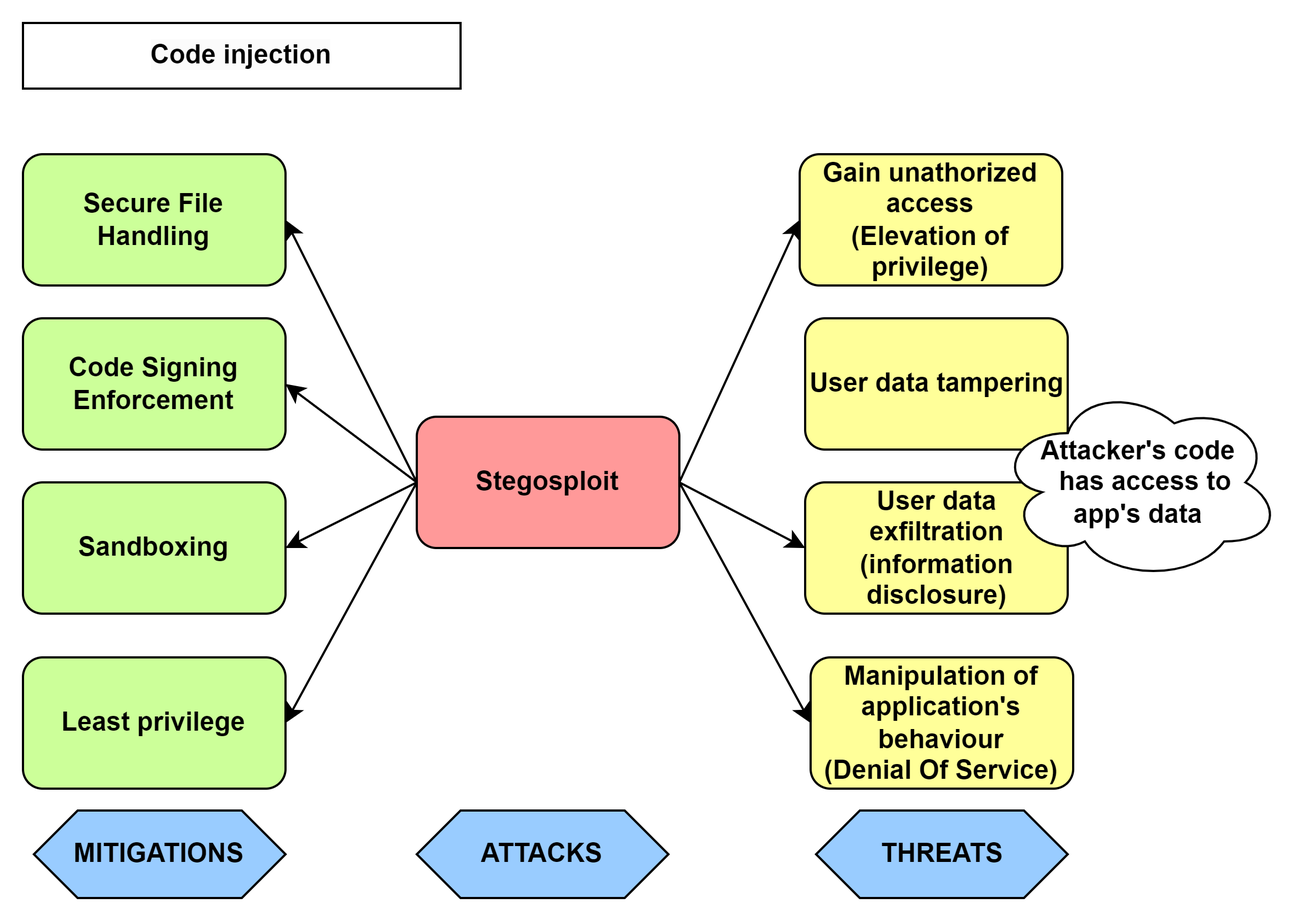
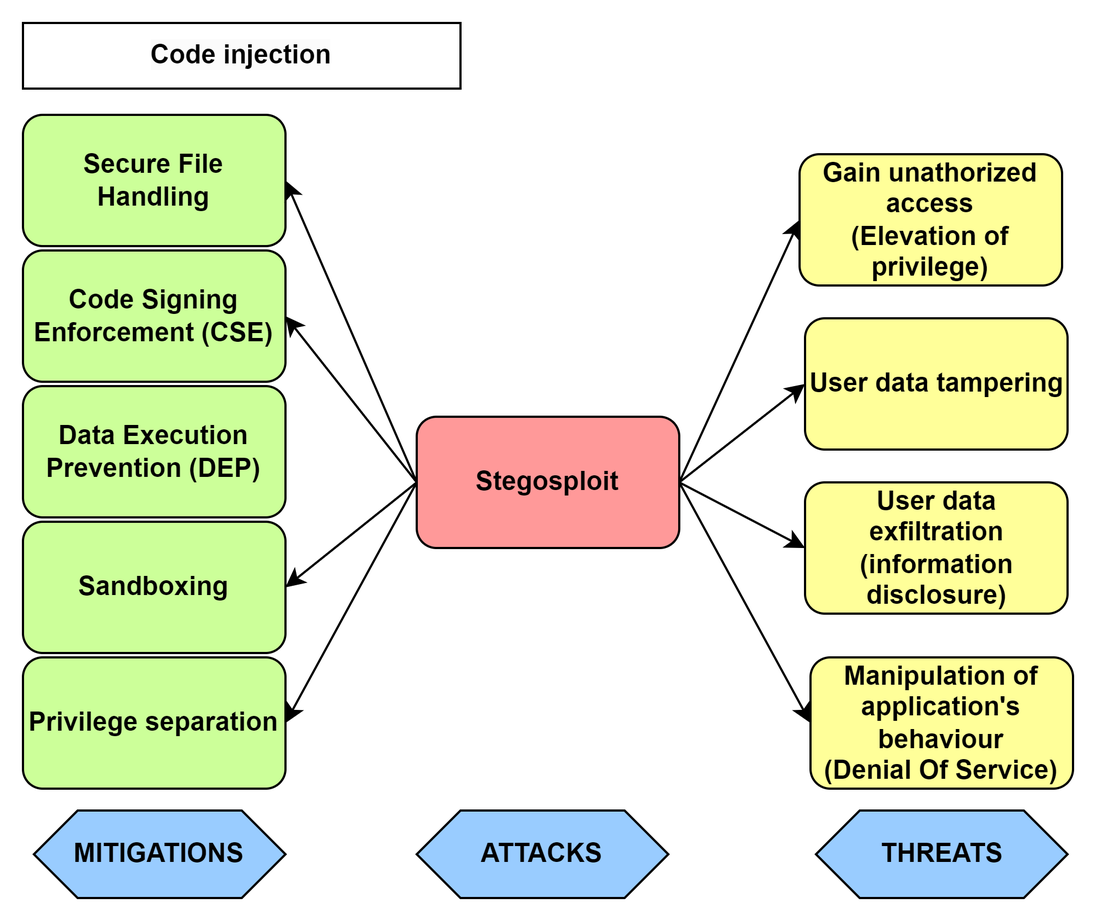
Media input and mic-cam access completed

diff --git a/documentation/ios/media-input-vulnerbilities.md b/documentation/ios/media-input-vulnerbilities.md
@@ -1,6 +1,6 @@
-# Media input vulnerbilities
+# Media input vulnerabilities
 
-It is impmortant to keep in mind that obvious forms of input, such as strings entered through dialog boxes, are not the only potential source of malicious input. [[2]](#resources)
+It is important to keep in mind that obvious forms of input, such as strings entered through dialog boxes, are not the only potential source of malicious input. [[2]](#resources)
 
 When a program solicits audio/photo/video input, it inherently exposes itself to the possibility of receiving unwanted data. This vulnerability arises from the dynamic nature of input sources, where the information provided may not always conform to the expected or desired format. Inappropriate data can take various forms, ranging from erroneous or malformed inputs to deliberately malicious content intended to exploit vulnerabilities within the program. 
 
@@ -11,28 +11,29 @@ Therefore developers must be vigilance in anticipating and managing diverse inpu
 
 When the input data is longer than will fit in the reserved space, if it is not truncated, that data will overwrite other data in memory. When this happens, it is called a buffer overflow.
 Buffer overflows, both on the stack and on the heap, are a major source of security vulnerabilities in C, Objective-C, and C++ code. 
-Although most programming languages check input against storage to prevent buffer overflows and underflows, C, Objective-C, and C++ do not.
+Although most programming languages check input against storage to prevent buffer overflow and underflow, C, Objective-C, and C++ do not.
 
 If the overwritten memory contained data essential to the operation of the program, this overflow causes a bug that, being intermittent, might be very hard to find. If the overwritten data includes the address of other code to be executed and the user has done this deliberately, the user can point to malicious code that program can then execute.
 
 Similarly, when the input data is or appears to be shorter than the reserved space (due to erroneous assumptions, incorrect length values, or copying raw data as a C string), this is called a buffer underflow. This can cause any number of problems from incorrect behavior to leaking data that is currently on the stack or heap.
 
-For example, the input data might be longer than what you have reserved room for in memory.
+For example, the input data might be longer than what have been reserved room for in memory.
 Buffer overflows in one operating system's help system could be caused by maliciously prepared embedded images.
 A commonly-used media player failed to validate a specific type of audio files, allowing an attacker to execute arbitrary code by causing a buffer overflow with a carefully crafted audio file. [[2]](#resources)
 
 
 ### Attack tree
 
-Following photo shows terms that will further be described in this section. It represents 2 types of buffer oveflow attack (stack and heap overflow), identified threats that could be exploited, and proposed strategies and countermeasures to mitigate those attacks.
+Following photo shows terms that will further be described in this section. It represents 2 types of buffer overflow attack (stack and heap overflow), identified threats that could be exploited, and proposed strategies and countermeasures to mitigate those attacks.
 
-<img src="../photos/image-2.png" alt="buffer overflow - attack tree" width="60%" />
+<img src="../photos/attackTree-bufferOverflow.png" alt="buffer overflow - attack tree" width="60%" />
+
 
 ## 1.1. Stack overflow
 
 In most operating systems, each application has a stack (and multithreaded applications have one stack per thread). This stack contains storage for locally scoped data.
 
-The stack is divided into units called stack frames. Each stack frame contains all data specific to a particular call to a particular function. This data typically includes the function’s parameters, the complete set of local variables within that function, and linkage information—that is, the address of the function call itself, where execution continues when the function returns. Depending on compiler flags, it may also contain the address of the top of the next stack frame.
+The stack is divided into units called stack frames. Each stack frame contains all data specific to a particular call to a particular function. This data typically includes the function's parameters, the complete set of local variables within that function, and linkage information—that is, the address of the function call itself, where execution continues when the function returns. Depending on compiler flags, it may also contain the address of the top of the next stack frame.
 
 Each time a function is called, a new stack frame is added to the top of the stack. Each time a function returns, the top stack frame is removed. At any given point in execution, an application can only directly access the data in the topmost stack frame.
 
@@ -42,17 +43,17 @@ Following photo shows the schematic organization of the stack.
 
 This becomes a serious problem when the application stores that data into a fixed-size buffer. If the user is malicious (or opens a file that contains data created by someone who is malicious), they might provide data that is longer than the size of the buffer. Because the function reserves only a limited amount of space on the stack for this data, the data overwrites other data on the stack.
 
-As shown in next photo, an attacker can use this technique to overwrite the return address used by the function, substituting the address of other code. Then, when function C completes execution, rather than returning to function B, it jumps to the attacker’s code.
+As shown in next photo, an attacker can use this technique to overwrite the return address used by the function, substituting the address of other code. Then, when function C completes execution, rather than returning to function B, it jumps to the attacker's code.
 
-Because the application executes the attacker’s code, the attacker’s code inherits the user’s permissions. If the user is logged on as an administrator, the attacker can take complete control of the computer, reading data from the disk, sending emails, and so forth. (Note that apps subject to sandboxing, which includes any app in iOS, as well as any for which you adopt App Sandbox in macOS, are unable to take complete control of the device, although an attacker can still access the app’s own data this way.) [[2]](#resources)
+Because the application executes the attacker's code, the attacker's code inherits the user's permissions. If the user is logged on as an administrator, the attacker can take complete control of the computer, reading data from the disk, sending emails, and so forth. (Note that apps subject to sandboxing, which includes any app in iOS, are unable to take complete control of the device, although an attacker can still access the app's own data this way.) [[2]](#resources)
 
 ![stack overflow2](../photos/cracked_stack.jpg)
 
 ## 1.2. Heap overflow
 
-The heap is used for all dynamically allocated memory in your application. When you use malloc, the C++ new operator, or equivalent functions to allocate a block of memory or instantiate an object, the memory that backs those pointers is allocated on the heap.
+The heap is used for all dynamically allocated memory in application. When using malloc, the C++ new operator, or equivalent functions to allocate a block of memory or instantiate an object, the memory that backs those pointers is allocated on the heap.
 
-Because the heap is used to store data but is not used to store the return address value of functions and methods, and because the data on the heap changes in a nonobvious way as a program runs, it is less obvious how an attacker can exploit a buffer overflow on the heap. To some extent, it is this nonobviousness that makes heap overflows an attractive target—programmers are less likely to worry about them and defend against them than they are for stack overflows.
+Because the heap is used to store data but is not used to store the return address value of functions and methods, and because the data on the heap changes in a non-obvious way as a program runs, it is less obvious how an attacker can exploit a buffer overflow on the heap. To some extent, it is this non-obviousness that makes heap overflows an attractive target—programmers are less likely to worry about them and defend against them than they are for stack overflows.
 
 In general, exploiting a buffer overflow on the heap is more challenging than exploiting an overflow on the stack. However, many successful exploits have involved heap overflows. There are two ways in which heap overflows are exploited: by modifying data and by modifying objects.
 
@@ -84,9 +85,18 @@ Exploiting a buffer overflow on the heap might be a complex, arcane problem to s
         if (supported) {...} else {...}</pre>
 
 
+- ***Fuzzing*** 
+
+    Fuzzing is the process of dynamically testing applications by repeatedly sending malformed data to the application being tested. Most importantly, fuzzing can discover many vulnerabilities in iOS, sometimes with very little effort or even understanding of the underlying programs being tested. In other words, it is the easiest way to find iOS bugs.[[14]](#resources)
+
+    Fuzzing is a favorite tool of hackers who are looking for buffer overflow. Because it will be employed by hackers against your program, you should use it first, so you can close any vulnerabilities before they do. A well-designed and implemented application should be able to handle any inputs provided to it. [[21]](#resources)
+    
+    The first step in the remote exploitation of a device is to find a security vulnerability in it. An attacker has many potential ways to supply data to an iOS device. Under no circumstances should the program crash and stop functioning as designed, because an attacker can take these vulnerabilities and use them to create exploits that can perform some unauthorized action on the devices.[[14]](#resources)
+     
+
 - ***App hardening***
 
-    iOS provide a few features that can make it harder to exploit stack and buffer overflows, most important being address space layout randomization (ASLR) and a non-executable stack and heap. These features are briefly explained in the sections that follow.
+    iOS provide a few features that can make it harder to exploit stack and buffer overflows, most important being *Address space layout randomization* (ASLR) and a non-executable stack and heap. These features are briefly explained in the sections that follow.
 
     -  **Address Space Layout Randomization (ASLR)**
 
@@ -125,15 +135,15 @@ Exploiting a buffer overflow on the heap might be a complex, arcane problem to s
 
 - ***Code reviews***
 
-    Implementing good coding practises and verifying them through regular code reviews can go a long way when it comes to security. Here are some keypoints to go through when working with buffer sizes.
+    Implementing good coding practices and verifying them through regular code reviews can go a long way when it comes to security. Here are some keypoints to go through when working with buffer sizes.
 
     - Avoid hard-coded buffer sizes
 
-        When working with fixed-length buffers, you should always use *sizeof* to calculate the size of a buffer, and then make sure you don't put more data into the buffer than it can hold. Even if you originally assigned a static size to the buffer, either you or someone else maintaining your code in the future might change the buffer size but fail to change every case where the buffer is written to.
+        When working with fixed-length buffers, always use *sizeof* to calculate the size of a buffer, and then make sure not to put more data into the buffer than it can hold. Even if it is originally assigned a static size to the buffer, someone maintaining a code in the future might change the buffer size but fail to change every case where the buffer is written to.
 
         The two snippets on the left side are safe as long as the original declaration of the buffer size is never changed. However, if the buffer size gets changed in a later version of the program without changing the test, then a buffer overflow will result.[[2]](#resources)
 
-        <img src="../photos/coding_practice1.png" alt="coding practice1" width="40%"/>
+        <img src="../photos/coding_practice1.png" alt="coding practice1" width="35%"/>
 
         The two snippets on the right side show safer versions of this code. In the first version, the buffer size is set using a constant that is set elsewhere, and the check uses the same constant. In the second version, the buffer is set to 1024 bytes, but the check calculates the actual size of the buffer. In either of these snippets, changing the original size of the buffer does not invalidate the check
 
@@ -146,16 +156,12 @@ Exploiting a buffer overflow on the heap might be a complex, arcane problem to s
 
         Both versions use the maximum path length for a file as the buffer size. The unsafe version in the left column assumes that the filename does not exceed this limit, and appends the suffix without checking the length of the string. The safer version in the right column uses the strlcat function, which truncates the string if it exceeds the size of the buffer.[[2]](#resources)
 
-- ***Fuzzing***
-
-[https://developer.apple.com/library/archive/documentation/Security/Conceptual/SecureCodingGuide/Articles/ValidatingInput.html#//apple_ref/doc/uid/TP40007246-SW8]  
-
 - ***Xcode's static analysis report***
 
     Static analysis can help to reveal memory leak, use-after-free, use-after-release, and other bugs.</br>
     The Xcode Clang Static Analyzer finds bugs in Objective-C, C, and C++ code. It finds hard-to-produce, edge-case bugs without the need to run code and shows the sequence of steps along which the bug occurs.
     Audit tip is to check the output of Xcode's "Build & Analyze" [[3]](#resources)</br>
-    If the static analyzer doesn’t report any problems, don't assume there are none. The tool doesn’t detect all code flaws.
+    If the static analyzer doesn't report any problems, don't assume there are none. The tool doesn't detect all code flaws.
 
 
 ## 2. Code injection attack
@@ -171,7 +177,8 @@ If the image processing software supports scripting, attackers may inject code t
 
 Following photo shows terms that will further be described in this section. It shows an example of code injection attack called stegosploit, identified threats that could be exploited through attack, and proposed strategies and countermeasures to mitigate those attacks.
 
-<img src="../photos/attackTree-codeInjection.png" alt="buffer overflow - attack tree" width="60%" />
+<img src="../photos/attackTree-codeInjection.png" alt="codeInjection - attack tree" width="50%" />
+
 
 ## 2.1. Stegosploit
 
@@ -185,7 +192,7 @@ Following photo shows terms that will further be described in this section. It s
 
 ### Steganography techniques
 
-Steganography does not exclusevly implies image manipulation. Here is a tree of possible multimedia embedment processes and techinuques for achiving it. While inherently not malicious techniques, with malicious intentions these are potential ways an attacker could integrate their code.
+Steganography does not exclusively implies image manipulation. Here is a tree of possible multimedia embedment processes and techniques for achieving it. While inherently not malicious techniques, with malicious intentions these are potential ways an attacker could integrate their code.
 
 <img src="../photos/stegotree.png" alt="stegoTree" width="50%" />
 
@@ -196,11 +203,11 @@ There are various techniques for image steganography. In all cases, the principl
 
 Conventionally, Least Significant Bits (LSB) substitution method is employed to perform image steganography. Images are usually of higher pixel quality, out of which not all the pixels are used. LSB methods works under the assumption that modifying a few pixel values would not show any visible changes.[[16]](#resources)
 
-The LSB methods are used in hiding the secret information inside videos also. Videos are sequences of images called the video frames. Each video is dissected into image frames and the binary bits of the secret information is hidden in the LSB of the image frames of the video. A basic form of LSB substitution method and a combination of the huffman encoding and LSB substitution  ethods is used on videos. [[16]](#resources)
+The LSB methods are used in hiding the secret information inside videos also. Videos are sequences of images called the video frames. Each video is dissected into image frames and the binary bits of the secret information is hidden in the LSB of the image frames of the video. A basic form of LSB substitution method and a combination of the huffman encoding and LSB substitution methods is used on videos. [[16]](#resources)
 
 Example:
 
-Suppose we have three bytes representing one particular color, in this case orange (1). The least significant bits – the last four if we’re reading left-to-right – do not make much of an impact on the color’s visual appearance. We can change those to anything we like and the pixel will still look pretty much the same. So, let’s take a completely different color - turquoise (2). And replace the last 4 bits in the code for orange with the first four bits of the code for turquoise, to produce this composite RGB (3). There’s no discernible impact on the appearance of the color this generates.[[18]](#resources)
+Suppose we have three bytes representing one particular color, in this case orange (1). The least significant bits – the last four if we're reading left-to-right – do not make much of an impact on the color's visual appearance. We can change those to anything we like and the pixel will still look pretty much the same. So, let's take a completely different color - turquoise (2). And replace the last 4 bits in the code for orange with the first four bits of the code for turquoise, to produce this composite RGB (3). There's no discernible impact on the appearance of the color this generates.[[18]](#resources)
 
 <p float="left">
     (1) <img src="../photos/orange1.webp" width="30%" /> 
@@ -208,7 +215,7 @@ Suppose we have three bytes representing one particular color, in this case oran
     (3) <img src="../photos/orange2.webp" width="30%" /> 
 </p>
 
-Two pixels for the price of one, since there’s no increase in the file size. We can transmit our hidden message without increasing the bandwidth of the original message and without manipulating the file format, so there’s nothing for simple detection methods that rely on file scanning to find. Indeed, the code is completely obfuscated until it is reassembled by the attacker.[[18]](#resources)
+Two pixels for the price of one, since there's no increase in the file size. We can transmit our hidden message without increasing the bandwidth of the original message and without manipulating the file format, so there's nothing for simple detection methods that rely on file scanning to find. Indeed, the code is completely obfuscated until it is reassembled by the attacker.[[18]](#resources)
 
 In short, this means an attacker can use the last four bits of encoded RGB data to write other data without significantly degrading the visual presentation of the image or inflating the file size. The hidden data can then be read-off by another program and used to reconstruct a malicious file or to exfiltrate user data.[[18]](#resources)
 
@@ -239,7 +246,7 @@ Command to create a new image that contains the text file we want to hide. The s
 
     steghide embed -ef <data> -cf <image> -sf <stego_image> -v
 
-Let’s take a look at the command:
+Let's take a look at the command:
 - steghide – We specify the tool to use
 - embed – Tells the tool we want to embed data
 - -ef – Embed file, specifies the file to hide
@@ -251,7 +258,7 @@ We can extract the data from the stego file using the command below.
 
     steghide extract -sf <stego_image> -xf <extracted_data>
 
-Let’s review the command above:
+Let's review the command above:
 
 - -sf – stego file, the image containing hidden data
 - -xf – extract file, the file with extracted data [[20]](#resources)
@@ -260,11 +267,18 @@ Let’s review the command above:
 
 ### Mitigations 
 
+- ***Secure File Handling***
+
+    Always validate and sanitize user input on the server to ensure that malicious data doesn't reach the application. [[2]](#resources) Implement strict file handling mechanisms and ensure that the file type is validated and content.
+
+    When dealing with media inputs, use safe APIs provided by iOS for handling media files to avoid any vulnerabilities. Avoid using unsafe functions or methods that may expose an app to injection attacks. [[8]](#resources)
+
+
 - ***Code Signing Enforcement (CSE)***
 
-    In order to prevent the introduction of new executable code at runtime, iOS implements a security protection called *Code Signing Enforcement* (CSE). This prevents applications from loading unsigned libraries, downloading new code at runtime, and using self-modifying code. It is also a strong protection against remote attacks that inject new native code into the application [[5]](#resources)
+    In order to prevent the introduction of new executable code at runtime, iOS implements one of the most important security mechanisms, security protection called *Code Signing Enforcement* (CSE). This prevents applications from loading unsigned libraries, downloading new code at runtime, and using self-modifying code. It is also a strong protection against remote attacks that inject new native code into the application [[5]](#resources)
 
-    One of the most important security mechanisms in iOS is code signing. All binaries and libraries must be signed by a trusted uthority (such as Apple) before the kernel will allow them to be executed. Furthermore, only pages in memory that come from signed sources will be executed. This means apps cannot change their behavior dynamically or upgrade themselves. Together, these actions prevent users from downloading and executing random files from the Internet. All apps must come from the Apple App Store (unless the device is configured to accept other sources). Apple has the ultimate approval and inspects applications before they can be hosted at the App Store. In this way, Apple plays the role of an antivirus for iOS devices. It inspects each app and determines if it is okay to run on iOS devices. This protection makes it very hard to get infected with malware. In fact, only a few instances of malware have ever been found for iOS. 
+     All binaries and libraries must be signed by a trusted authority (such as Apple) before the kernel will allow them to be executed. Furthermore, only pages in memory that come from signed sources will be executed. This means apps cannot change their behavior dynamically or upgrade themselves. Together, these actions prevent users from downloading and executing random files from the Internet. All apps must come from the Apple App Store (unless the device is configured to accept other sources). Apple has the ultimate approval and inspects applications before they can be hosted at the App Store. In this way, Apple plays the role of an antivirus for iOS devices. It inspects each app and determines if it is okay to run on iOS devices. This protection makes it very hard to get infected with malware. In fact, only a few instances of malware have ever been found for iOS. 
     
     The other impact of code signing is that it complicates exploitation. Once an exploit is executing code in memory, it might want to download, install, and execute additional malicious applications. This will be denied because anything it tries to install will not be signed. Therefore, exploits will be restricted to the process they originally exploit, unless it goes on to attack other features of the device. 
     
@@ -272,7 +286,10 @@ Let’s review the command above:
 
 - ***Data Execution Prevention (DEP)***
 
-    Normally, data execution prevention (DEP) is a mechanism whereas a processor can distinguish which portions of memory are executable code and which portions are data; DEP will not allow the execution of data, only code. This is important because when an exploit is trying to run a payload, it would like to inject the payload into the process and execute it. DEP makes this impossible because the payload is recognized as data and not code. The way attackers normally try to bypass DEP is to use return-oriented programming (ROP), which is discussed in Chapter 8. ROP is a procedure in which the attacker reuses existing valid code snippets, typically in a way never intended by the process, to carry out the desired actions. 
+    *Data execution prevention* (DEP) is a mechanism whereas a processor can distinguish which portions of memory are executable code and which portions are data; DEP will not allow the execution of data, only code. This is important because when an exploit is trying to run a payload, it would like to inject the payload into the process and execute it. DEP makes this impossible because the payload is recognized as data and not code. 
+    
+    The way attackers normally try to bypass DEP is to use *return-oriented programming* (ROP). 
+    ROP is a procedure in which the attacker reuses existing valid code snippets, typically in a way never intended by the process, to carry out the desired actions. 
 
     The code-signing mechanism in iOS acts like DEP but is even stronger. Typical attacks against DEP-enabled systems use ROP briefly to create a section of memory that is writable and executable (and hence where DEP is not enforced). Then they can write their payload there and execute it. However, code signing requires that no page may be executed unless it originates from code signed by a trusted authority. Therefore, when performing ROP in iOS, it is not possible to turn off DEP like an attacker normally would. Combined with the fact that the exploit cannot execute applications that they may have written to disk, this means that exploits must only perform ROP. They may not execute any other kinds of payloads such as shellcode or other binaries. Writing large payloads in ROP is very time-consuming and complex. This makes exploitation of iOS more difficult than just about any other platform.  [[14]](#resources)
 
@@ -280,26 +297,15 @@ Let’s review the command above:
 
     iOS enforces restrictions that limit each application's access to user data and the operating system APIs. This mechanism is designed to protect against incursions by malicious third-party applications, and to limit the damage caused by exploitation of a non-malicious application. To implement this, iOS runs each application in a *sandbox* that restricts its access to the device file system and memory space.[[5]](#resources)
 
-    The final piece of the iOS defense is sandboxing. Sandboxing allows even finergrained control over the actions that processes can  perform than the UNIX permission system mentioned earlier. For example, both the SMS application and the web browser run as user mobile, but perform very different actions. The SMS application probably doesn't need access to your web browser cookies and the web browser doesn't need access to your text messages. Third-party apps from the App Store shouldn't have access to either of these things. Sandboxing solves this problem by allowing Apple to specify exactly what permissions are necessary for apps. (See Chapter 5 for more details.) Sandboxing has two effects. First, it limits the damage malware can do to the device. If you imagine a piece of malware being able to get through the App Store review process and being downloaded and executed on a device, the app will still be limited by the sandbox rules. It may be able to steal all your photos and your address book, but it won't be able to send text messages or make phone calls, which might directly cost you money. Sandboxing also makes exploitation harder. If an attacker finds a vulnerability in the reduced attack surface, manages to get code executing despite the ASLR and DEP, and writes a productive payload entirely in ROP, the payload will still be confined to what is accessible within the sandbox. Together, all of these protections make malware and exploitation difficult, although not impossible. [[14]](#resources)
+    Sandboxing allows even finergrained control over the actions that processes can  perform than the UNIX permission system. For example, both the SMS application and the web browser run as user mobile, but perform very different actions. The SMS application probably doesn't need access to web browser cookies and the web browser doesn't need access to text messages. Third-party apps from the App Store shouldn't have access to either of these things. Sandboxing solves this problem by allowing Apple to specify exactly what permissions are necessary for apps. 
 
-- ***Secure File Handling***
+    Sandboxing also makes exploitation way harder. If an attacker finds a vulnerability in the reduced attack surface, manages to get code executing despite the ASLR and DEP, it will still be confined to what is accessible within the sandbox. 
+    
+    Together, all of these protections make malware and exploitation difficult, although not impossible. [[14]](#resources)
 
-    Always validate and sanitize user input on the server to ensure that malicious data doesn't reach the application. [[2]](#resources) Implement strict file handling mechanisms and ensure that you validate the file type and content.
+- **Privilege separation**
 
-    When dealing with media inputs, use safe APIs provided by iOS for handling media files to avoid any vulnerabilities. Avoid using unsafe functions or methods that may expose your app to injection attacks. [[8]](#resources)
-
-
-- **Least privilege**
-
-    // EXPAND THIS PART!!
-
-    For this reason, even if you are confident that your code is free of buffer overflow problems, you should limit exposure by running with the least privileges possible.
-
-
-- ***Code review***
-
-    For applications distributed via its AppStore (which is the only software installation method allowed on a device with default settings) Apple additionally performs automated and manual code review of third-party applications.
-    Despite these protections, malicious or privacy-violating applications have passed review. [[6]](#resources)
+    iOS separates processes using users, groups, and other traditional UNIX file permission mechanisms. For example, many of the applications to which the user has direct access, such as the web browser, mail client, or third-party apps, run as the user mobile. The most important system processes run as the privileged user root. Other system processes run as other users such as _wireless or _mdnsresponder. By using this model, an attacker who gets full control of a process such as the web browser will be constrained by he fact the code she is executing will be running as user mobile. There are limits to what such an exploit can do; for example, the exploit will not be able to make system level configuration changes. Likewise, apps from the App Store are limited in what they can do because they will be executed as user mobile as well. [[14]](#resources)
 
 
 
@@ -309,36 +315,99 @@ This malware might be bundled with software the user wants, or it might disguise
 
 Apple iOS has a major advantage over Android in terms of security due to the closed nature of the Apple store whereby all apps are vetted by Apple before release. This helps to reduce the number of malware apps found in the store. [[15]](#resources)
 
-Common malware known to speciffically attack media layer is AdKing or AdLord adware. 
+### Attack tree
 
-This is a form of malware which can only infect *jailbroken* devices. It uses third-party Cydia library to display advertisements over other apps or in the notification bar and ask users to download the promoted iOS apps. The malware will be functioning whenever the apps are open. The iOS framework involved is the *AVFoundation* framework, located at the Media layer.[[7]](#resources)
+Following photo shows terms that will further be described in this section. It represents how malware attack can exploit jailbreak, identified threats that could be exploited, and proposed strategies and countermeasures to mitigate malware.
 
-### Jailbrake 
+<img src="../photos/attackTree-malware.png" alt="malware - attack tree" width="50%" />
+
+### Jailbreaking 
+
+"Jailbreaking" has been used to permit unsigned iOS code to be executed on an Apple mobile device and to permit service connections to other mobile carriers. Cydia, an unauthorized iOS application installer, has been distributing unapproved applications in competition to the Apple app store. While unsigned code may not be malicious, Apple's signing process does provide some assurance that classic C vulnerabilities have been addressed. [[13]](#resources)
+
+When a phone is jailbroken, Apple's security measures are completely given up. Side loaded apps are not checked and screened via Apple's App Store and therefore represent a security risk. Also, jailbroken phone stop receiving iOS updates, including the security updates that Apple releases, leaving device more exposed to the latest security threats.
+
+People jailbreak their iOS devices for many reasons. Some of them want an open platform for which they can develop software, others  like the idea of having total control over their devices, some require jailbreaks to install software like ultrasn0w to bypass  cellular carrier locks, and some use jailbreaks to pirate iPhone applications. [[14]](#resources)
+
+
+| **Jailbreaking Advantages**                          | **Jailbreaking Disadvantages**                                      |
+|------------------------------------------------------|---------------------------------------------------------------------|
+| - More control over a device - For users who find iOS restrictive and want to customize their phone - (Administrator of device with all the relevant rights,  greater access to the file system, unlocks communication from another device)                                                 | - Data breaches - A notorious jailbreak hacking incident occurred when hackers gained access to iCloud login information of 225,000 individuals who attempted jailbreak. The hack was facilitated by security vulnerabilities created by jailbreaking, which helped hackers infiltrate users' devices. 
+| - Install and use unauthorized apps  - Apple bans various apps from its App Store due to security reasons. - Jailbreaking enables  to install apps that are not available from the App Store| - Security problems - The closed nature of iOS is designed to be one of the most secure mobile operating systems to protect both personal information and the system itself. Jailbreaking phone increases a hackers' risk of stealing personal information, damaging device, attacking  network, or introducing malware, spyware, or viruses. |
+| - Remove or delete pre-installed apps                | - No more automatic updates                                         |
+| - Access to additional anti-theft features           | - Voiding the phone's warranty                                      |
+|                                                      | - Shortened battery life                                            |
+|                                                      | - It might brick a phone                                            |
+|                                                      | - May lose access to content or services                        |
+|                                                      | - Phone may be more likely to crash                                 |
+
+
+
+
+### Security risks of jailbreaking
+
+There are security risks to jailbreaking phone. While jailbreaking gives more control over device, it also gives all the apps that run on it more control. The biggest security threats come from allowing these applications to request root access on the device. If malware is installed on the device, it can escalate and gain root access — giving complete access to all data on the device.
+
+Jailbreaking removes Apple's "walled garden" safety,' which is designed to protect users from security threats. Jailbroken phones are much more susceptible to viruses and malware because users can avoid Apple application vetting processes that help ensure users download virus-free apps. Jailbreaking enables software piracy, so apps and games can be distributed for free.
+
+Data from banking apps, stored passwords, and data from social media accounts could be at risk if this information becomes accessible from a jailbroken iPhone. As mentioned above, this risk became apparent when an iOS jailbreak malware called KeyRaider stole 225,000 Apple IDs and thousands of certificates, private keys, and purchasing receipts. Ultimately, victims reported their stolen accounts showed abnormal app purchasing history, and in other instances, phones were locked and held for ransom.
+
+Aside from being at greater risk of malware, jailbroken iPhones are often filled with bugs that could keep crashing a phone and disable other important features. As smartphone usage continues to grow, so too does the risk of mobile crime. That is why it is essential to stay informed about the latest threats and scams, and to have comprehensive mobile security installed on a device. [[14]](#resources)
+
+## AdKing malware
+
+AdKing, also known as AdLord is a specific type of malware that targets the media layer within iOS devices, and it only exploits devices that have been jailbroken. Once a device is jailbroken, AdKing can gains access to the iOS system through third-party Cydia libraries.
+
+This malicious software primarily operates within the *AVFoundation* framework, situated at the Media layer of the iOS architecture. The AVFoundation framework is responsible for handling multimedia functionalities such as audio and video playback. AdKing leverages this framework to display intrusive advertisements over other apps or within the notification bar, disrupting the user experience.
+
+One of the characteristic behaviors of AdKing is its aggressive promotion of other malware-disguised iOS applications and remains active whenever applications are in use. By overlaying ads on legitimate apps, users are tricked into clicking on the malicious content, leading to the download of additional malware. This poses a serious threat to the security and integrity of the affected devices.  [[7]](#resources)
 
 ### Mitigations
 
-- [***Sandboxing***](#mitigations-1)
-
 - ***Jailbreak detection***
 
-    "Jailbreaking" has been used to permit unsigned iOS code to be executed on an Apple mobile device and to permit service connections to other mobile carriers. Cydia, an unauthorized iOS application installer, has been distributing unapproved applications in competition to the Apple app store. While unsigned code may not be malicious, Apple's signing process does provide some assurance that classic C vulnerabilities have been addressed. [[13]](#resources)
-
-    Application logic and behavior might be compromised on JailBroken devices, and application exposed to attacks. With that said, any hacker can bypass those basic checks with some effort, therefore it is important to know this and not completely rely on the jailbreak detection methods.
+    Application logic and behavior might be compromised on JailBroken devices, and application exposed to attacks. With that said, any hacker can bypass these basic checks with some effort, therefore it is important to know this and not completely rely on the jailbreak detection methods.
 
     The following tests check and inform the developer that if device is jailbroken:
 
     - A lot of unique files and applications are installed on a jailbroken device. Checking for these files in the file system can help identify whether the device is jailbroken or not. This test checks that the developer is looking for these files.
     - Check to see whether the application follows sandboxing rules can help the user identify whether the application is jailbroken or not. A good way to check is to see if we can modify a file in some location outside the application bundle. This test looks for such checks by the developer.
-    - If calling the Cydia's URL scheme (Cydia://) from your application results in success, it can be sure that the device is jailbroken. This test checks whether the developer performs this check.
+    - If calling the Cydia's URL scheme (Cydia://) from an application results in success, it can be sure that the device is jailbroken. This test checks whether the developer performs this check.
 
     Apart from these, it is advisable to check every possible way to really find if the device is compromised. [[1]](#resources)
 
+- ***User education***
+
+    The best defense against the threat of adware is its recognition and avoidance. 
+
+    End users should know to be especially wary of ads claiming to be from a legitimate source that asks them to click on a link or download an attachment. These could be phishing attempts and can put devices at risk of other malware infection.
+    Users are strongly advised to refrain from jailbreaking their devices and to exercise caution when interacting with unfamiliar content or apps to prevent falling victim to AdKing and similar malware.
+
 - ***Third party library mitigations***
     
-    Third-party frameworks are necessary evils. They offer some valuable resources that enhance your iOS app functionalities but most of them are vulnerable and loosely secured. One of the iOS app development best practices is to keep these third-party integrations updated to the latest stable version available at all times. Keep an eye out for ad libraries if you're using any. Don't disable ATS  (Application Tracking System) even if the integration persuades you to do so.[[8]](#resources)
+    Third-party frameworks are necessary evils. They offer some valuable resources that enhance an iOS app functionalities but most of them are vulnerable and loosely secured. One of the iOS app development best practices is to keep these third-party integrations updated to the latest stable version available at all times. It is recommended to keep an eye out for ad libraries and not to disable ATS (Application Tracking System) even if the integration persuades to do so.[[8]](#resources)
 
-    Carefully vet third-party libraries and SDKs used in your app to ensure they come from reputable sources with regular updates and security patches. Regularly update these libraries to benefit from the latest security enhancements.[[9]](#resources)
+    Carefully vet third-party libraries and SDKs used in an app to ensure they come from reputable sources with regular updates and security patches. Regularly update these libraries to benefit from the latest security enhancements.[[9]](#resources)
 
+- [***Sandboxing***](#mitigations-1)
+
+    It limits the damage malware can do to the device. 
+    If a piece of malware was able to get through the App Store review process and be downloaded and executed on a device, the app will still be limited by the sandbox rules.[[14]](#resources)
+
+
+</br>
+
+## Examples of combined attack vectors
+
+### Attack vector 1
+1. Fuzzing -> identifies memory corruption
+2. Code injection through stegosploit -> inserts malicious code through image upload
+3. Buffer overflow through invalid input -> execute malicious code
+
+### Attack vector 2
+1. Jailbreak -> exposes iOS to multiple vulnerabilities
+2. Social engineering -> inserts malware through user's click on advertisement
+3. Malware execution
 
 
 ## Resources
@@ -362,3 +431,4 @@ This is a form of malware which can only infect *jailbroken* devices. It uses th
 18. [Hiding Code Inside Images](https://www.sentinelone.com/blog/hiding-code-inside-images-malware-steganography/)
 19. [Steghide](https://steghide.sourceforge.net/)
 20. [What is Steganography? How to Hide Data Inside Data](https://www.freecodecamp.org/news/what-is-steganography-hide-data-inside-data/)
+21. [Secure Coding Guide - Fuzzing]([https://developer.apple.com/library/archive/documentation/Security/Conceptual/SecureCodingGuide/Articles/ValidatingInput.html#//apple_ref/doc/uid/TP40007246-SW8] )

diff --git a/documentation/ios/unauthorized-access-to-mic-cam.md b/documentation/ios/unauthorized-access-to-mic-cam.md
@@ -1,25 +1,24 @@
 # Unauthorized access to microphone/camera
 
-Unauthorized access to the microphone or camera on iOS phones refers to an application or process gaining access to the device's microphone or camera without the explicit consent of the user. Apple places a strong emphasis on user privacy and security, and it has implemented various measures to protect users from unauthorized access to sensitive components like the microphone and camera.
+Unauthorized access to the microphone or camera on iOS phones refers to an application or process gaining access to the device's microphone or camera without the explicit consent or knowledge of the user. Apple places a strong emphasis on user privacy and security, and it has implemented various measures to protect users from unauthorized access to sensitive components like the microphone and camera.
 
-![Unauthorized access to microphone/camera](../photos/mic-cam-access.png)
+## **Attack tree**
+
+Following photo shows terms that will further be described in this section. It represents covered attacks, identified threats that could be exploited, and proposed strategies and countermeasures to mitigate those attacks.
+
+<img src="../photos/attackTree-micCam.png" alt="micCam - attack tree" width="50%" />
 
 ### Threats
 
-- ***Privacy Invasion***
+- ***Privacy Invasion And Data Theft as Information Disclosure***
 
     Intruders can spy on individuals in their private spaces, capturing audio and video without the person's knowledge or consent. This can lead to the exposure of sensitive information where secured details will be compromised if screenshot or screen recording is performed. [[3]](#resources)
 
-- ***Data Theft*** 
-
     An attacker could record login/any sensitive screen and capture username and password entered.
-    In video streaming like an app, any paid video content can be streamed and recorded. [[3]](#resources)
+    In video streaming, any paid video content can be streamed and recorded. [[3]](#resources)
 
     Attackers may gain access to confidential conversations or information captured by the microphone or camera, leading to potential identity theft, financial fraud, or other forms of data exploitation.
 
-- ***Device Control and Manipulation***
-
-    Unauthorized access may allow attackers to take control of a device's camera or microphone to manipulate information or create false narratives.
 
 ### Attacks
 
